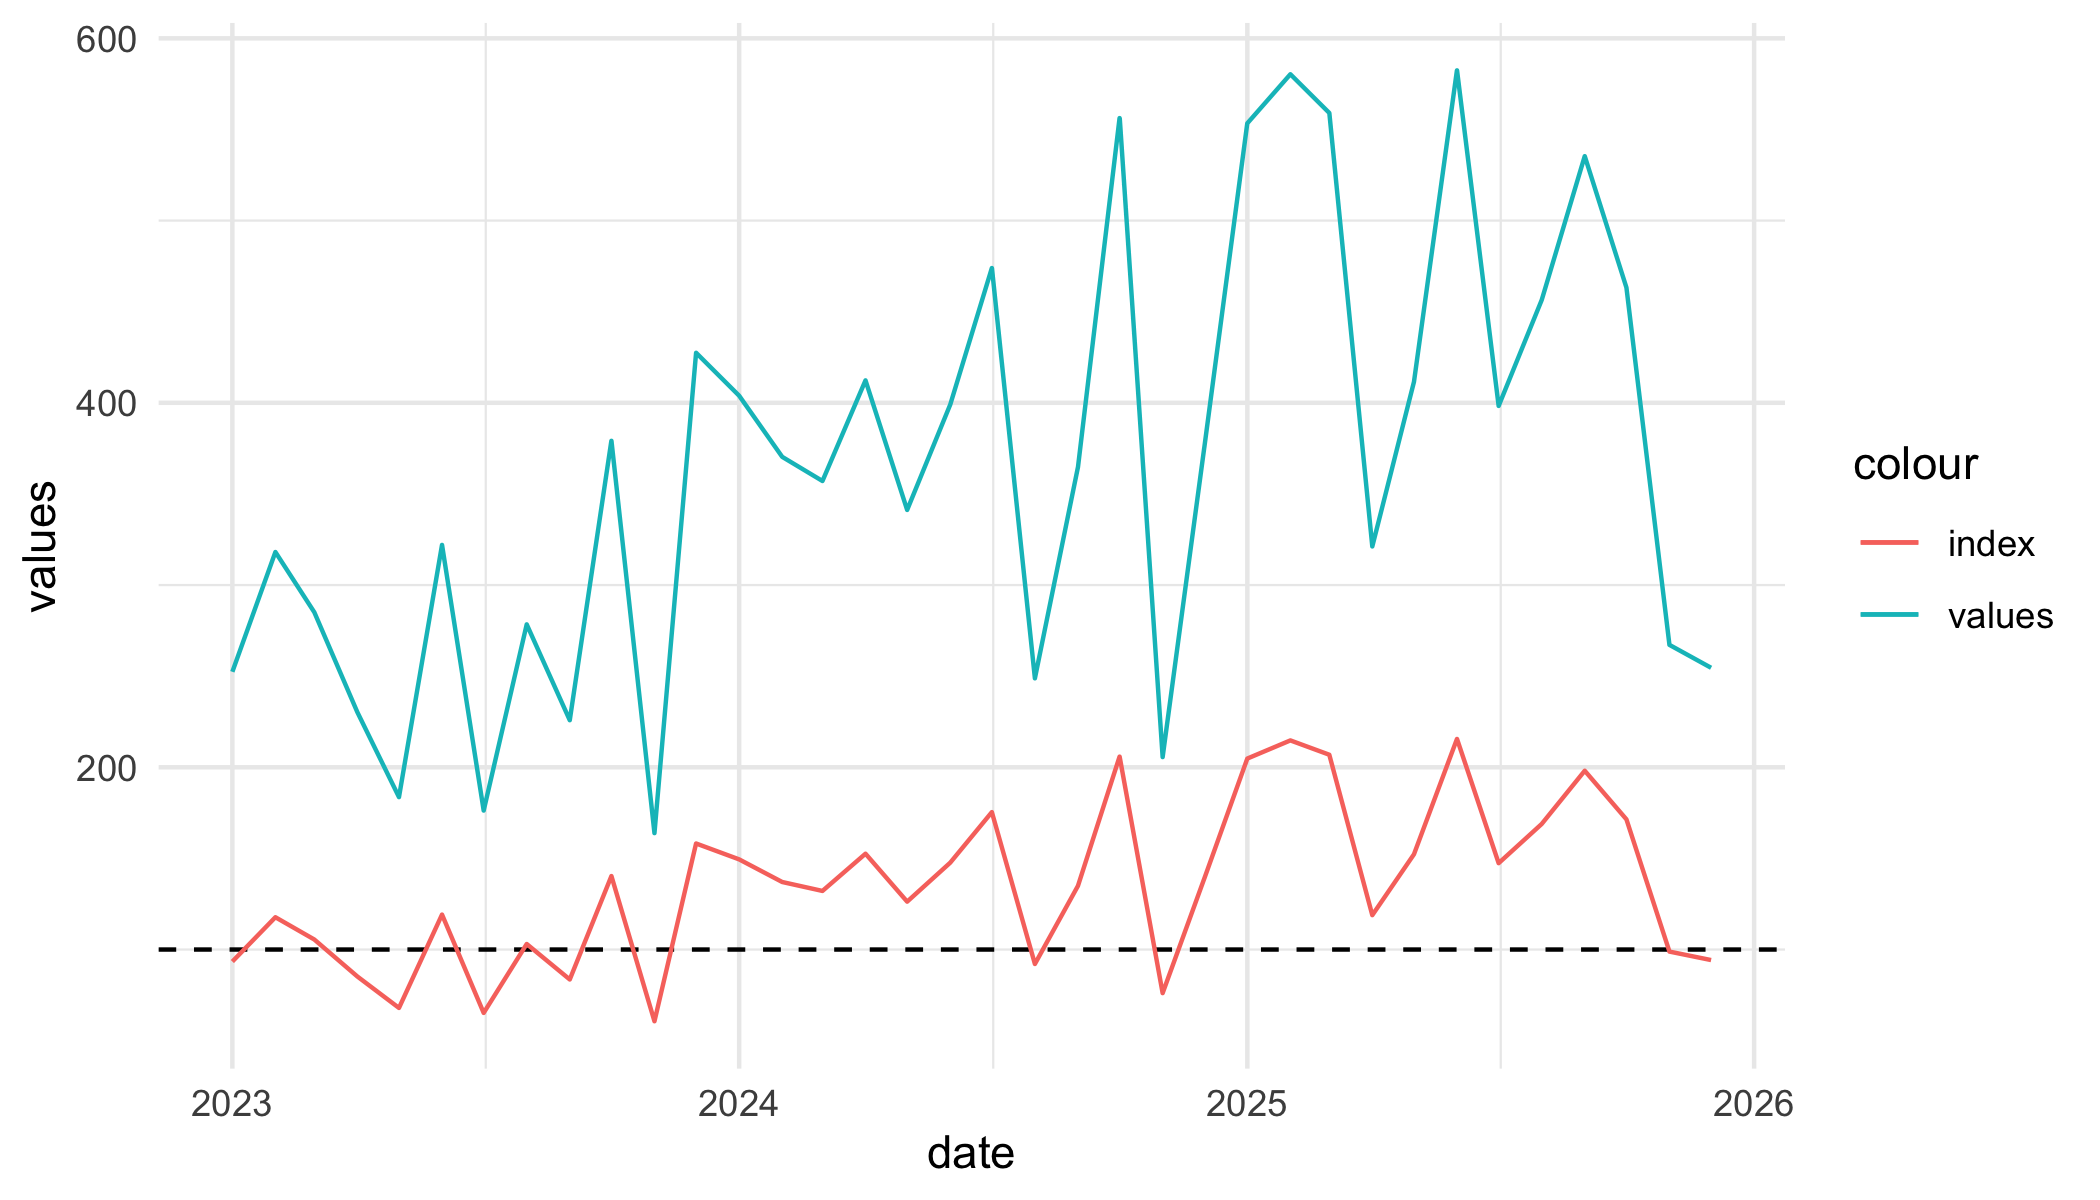
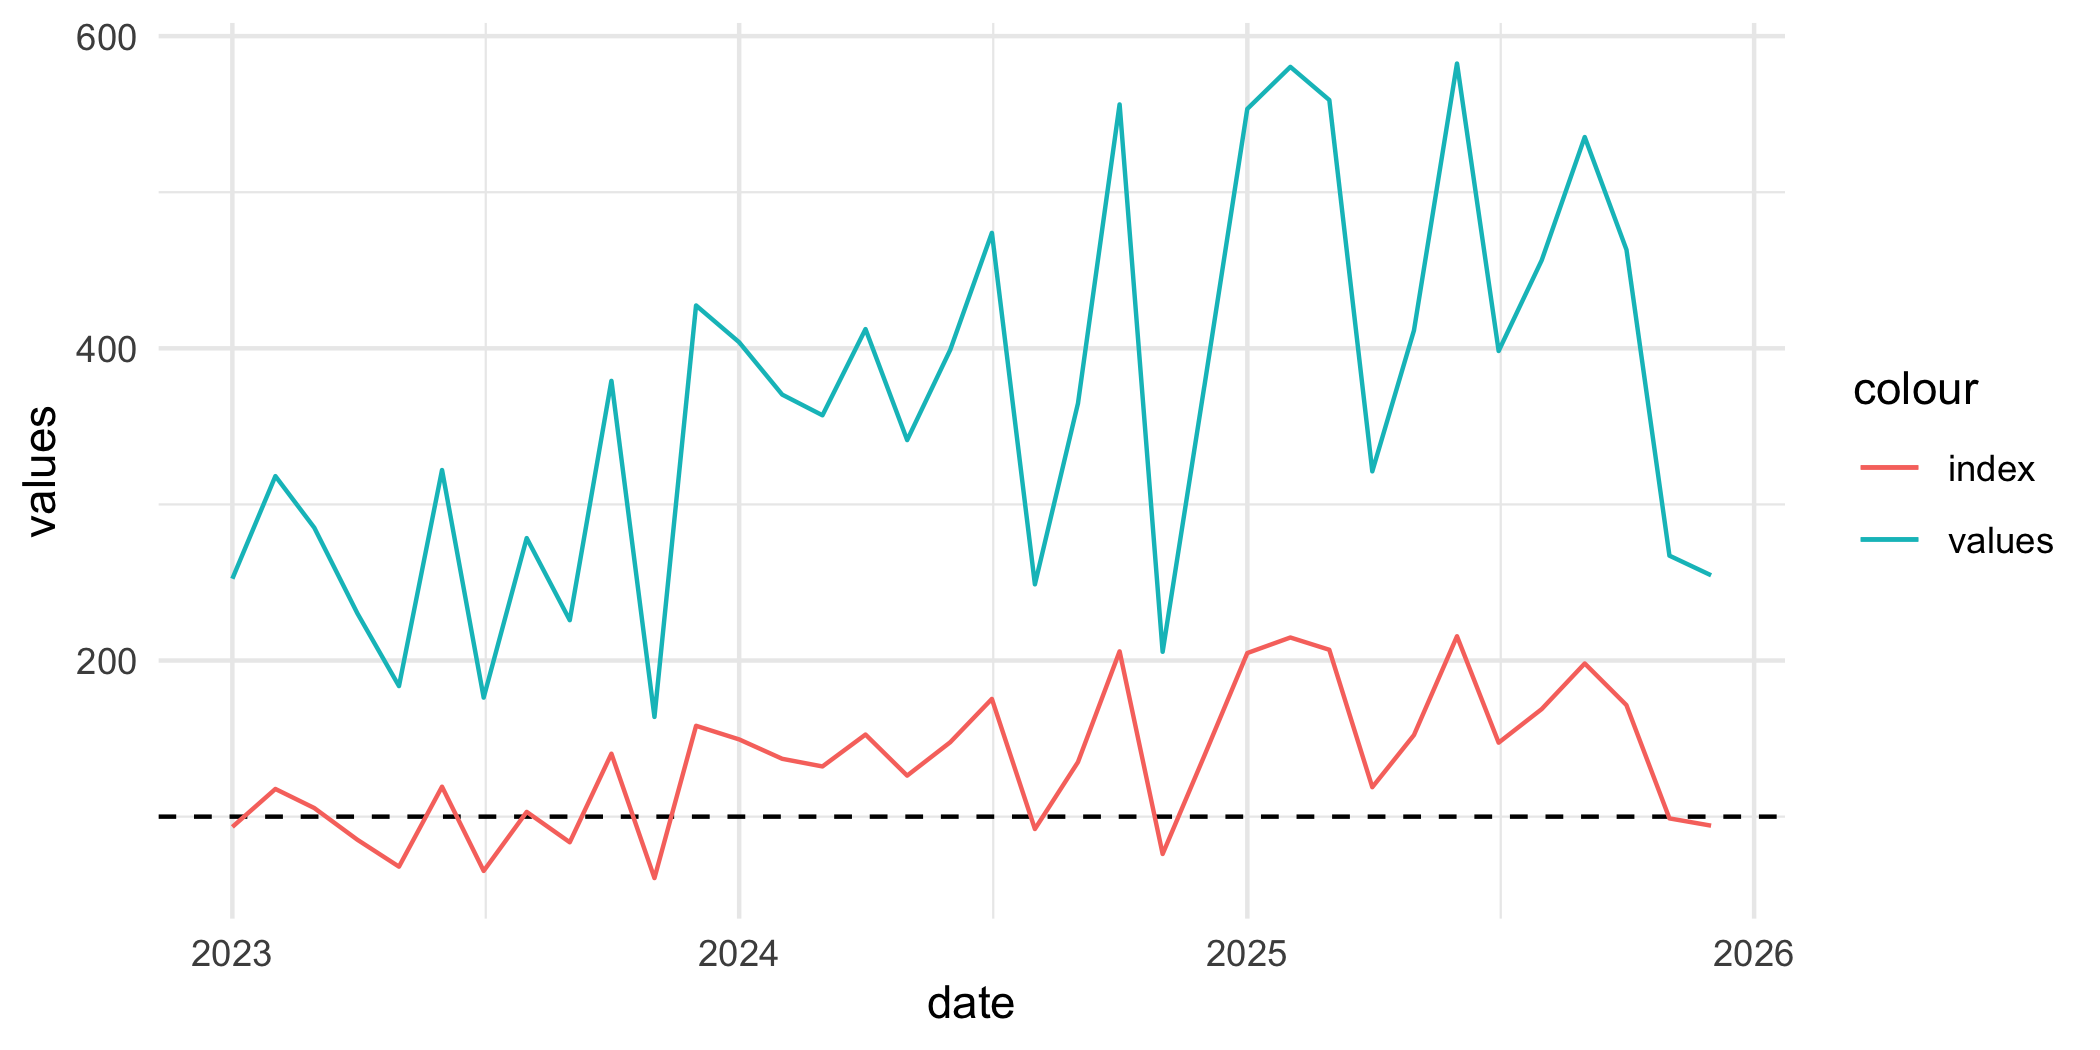
Update of README

diff --git a/README.md b/README.md
@@ -57,7 +57,7 @@ df2 %>%
   theme_minimal()
 ```
 
-<img src="man/figures/README-unnamed-chunk-3-1.png" width="100%" height="450px" />
+<img src="man/figures/README-unnamed-chunk-3-1.png" width="100%" />
 
 ### Example 2:
 
@@ -88,7 +88,7 @@ df2 %>%
   theme_minimal()
 ```
 
-<img src="man/figures/README-unnamed-chunk-4-1.png" width="100%" height="450px" />
+<img src="man/figures/README-unnamed-chunk-4-1.png" width="100%" />
 
 ### Example 3:
 
@@ -116,4 +116,4 @@ idx_gap %>%
   theme_minimal()
 ```
 
-<img src="man/figures/README-unnamed-chunk-5-1.png" width="100%" height="450px" />
+<img src="man/figures/README-unnamed-chunk-5-1.png" width="100%" />
